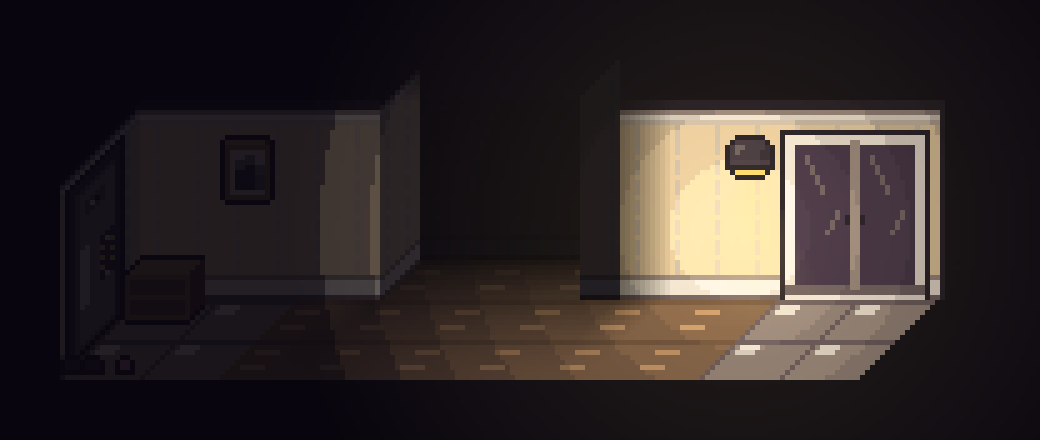
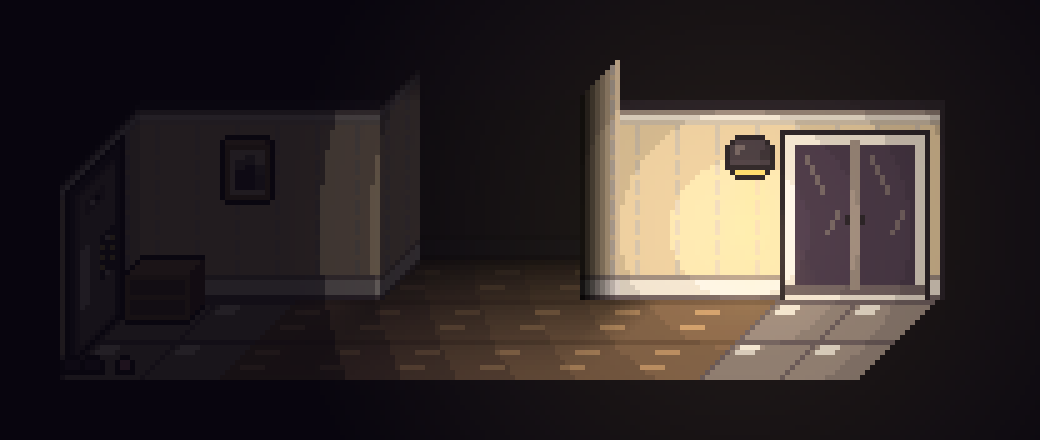
Corridor: folded wall strip as gradient from dark to original wall color; top triangle kept
Claude-Session: https://claude.ai/code/session_01FPZSaKiVNU2zED737yZX4w

Changed region(s): [[0.5538, 0.1477, 0.6462, 0.6795]]

diff --git a/tools/render_room.py b/tools/render_room.py
@@ -129,7 +129,7 @@ def render_room(path, scale=1):
                     if z < 16: nm, ty = names['base'], 15 - int(z)
                     elif z < 32: nm, ty = names['mid'], 15 - int(z - 16)
                     else: nm, ty = names['mid'], 15 - int(z - 32) % 16
-                    r_, g_, b_, a_ = get(nm, int(off + 5), ty); px[X, Y] = (int(r_ * .34), int(g_ * .34), int(b_ * .38), a_); strip_px.append((X, Y))                       # 조명 뒤에 한 번 더 어둡게 눌러 준다
+                    r_, g_, b_, a_ = get(nm, int(off + 5), ty); gk = .1 + .9 * (off / max(1, int(SK * RD) - 1)) ** 1.1; px[X, Y] = (r_, g_, b_, a_); strip_px.append((X, Y, gk))       # 왼쪽(검은 곳 쪽)은 어둡고 오른쪽 벽에 닿을수록 원래 색으로 돌아가는 그라데이션
     emitters = []
     def stamp(name, left, bottom):                           # 정면 스프라이트 (왼쪽 아래 모서리 기준)
         sp = lib[name]; img.alpha_composite(sp, (int(round(left)), int(round(bottom - sp.height))))
@@ -211,8 +211,8 @@ def render_room(path, scale=1):
     # 조명과 톤
     bg = Image.new('RGBA', img.size, (8, 6, 12, 255)); bg.alpha_composite(img); img = R.shade(bg, emitters, m['ambient'], False)
     p3 = img.load()
-    for (X, Y) in strip_px:
-        r_, g_, b_, a_ = p3[X, Y]; p3[X, Y] = (int(r_ * .4), int(g_ * .4), int(b_ * .46), a_)
+    for (X, Y, gk) in strip_px:                                          # 조명 뒤에 그라데이션을 곱한다(조명에 씻기지 않게)
+        r_, g_, b_, a_ = p3[X, Y]; p3[X, Y] = (int(r_ * gk), int(g_ * gk), int(b_ * gk * 1.05), a_)
     if m['tone']:
         p2 = img.load()
         for y in range(img.height):
